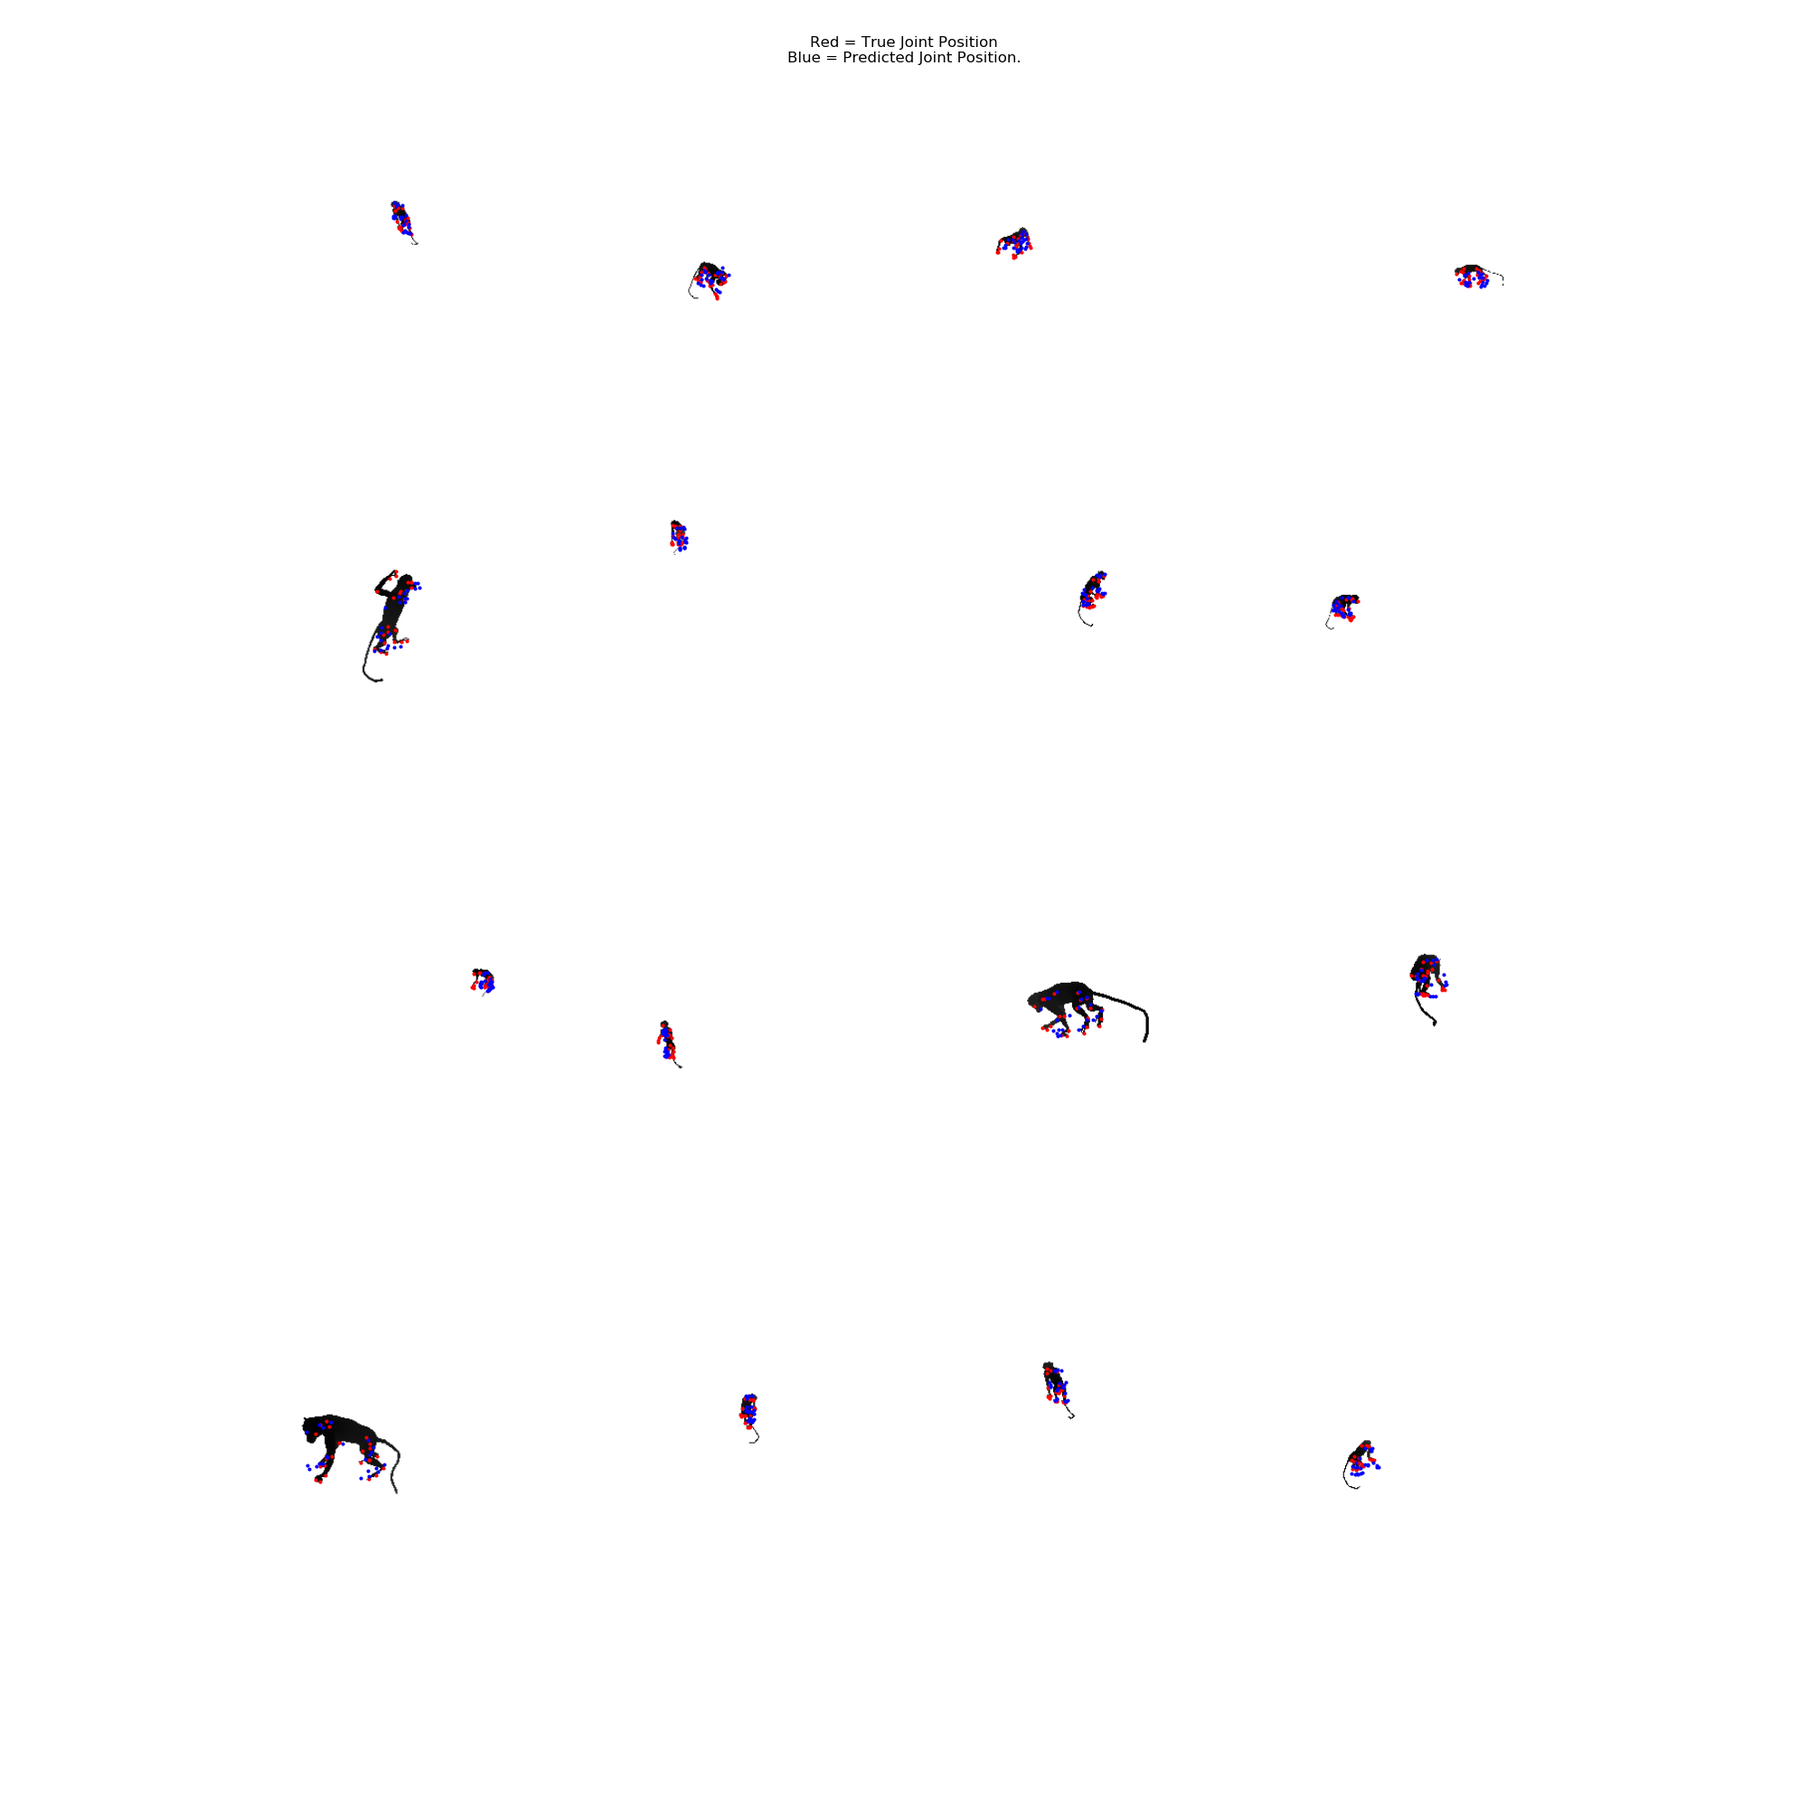
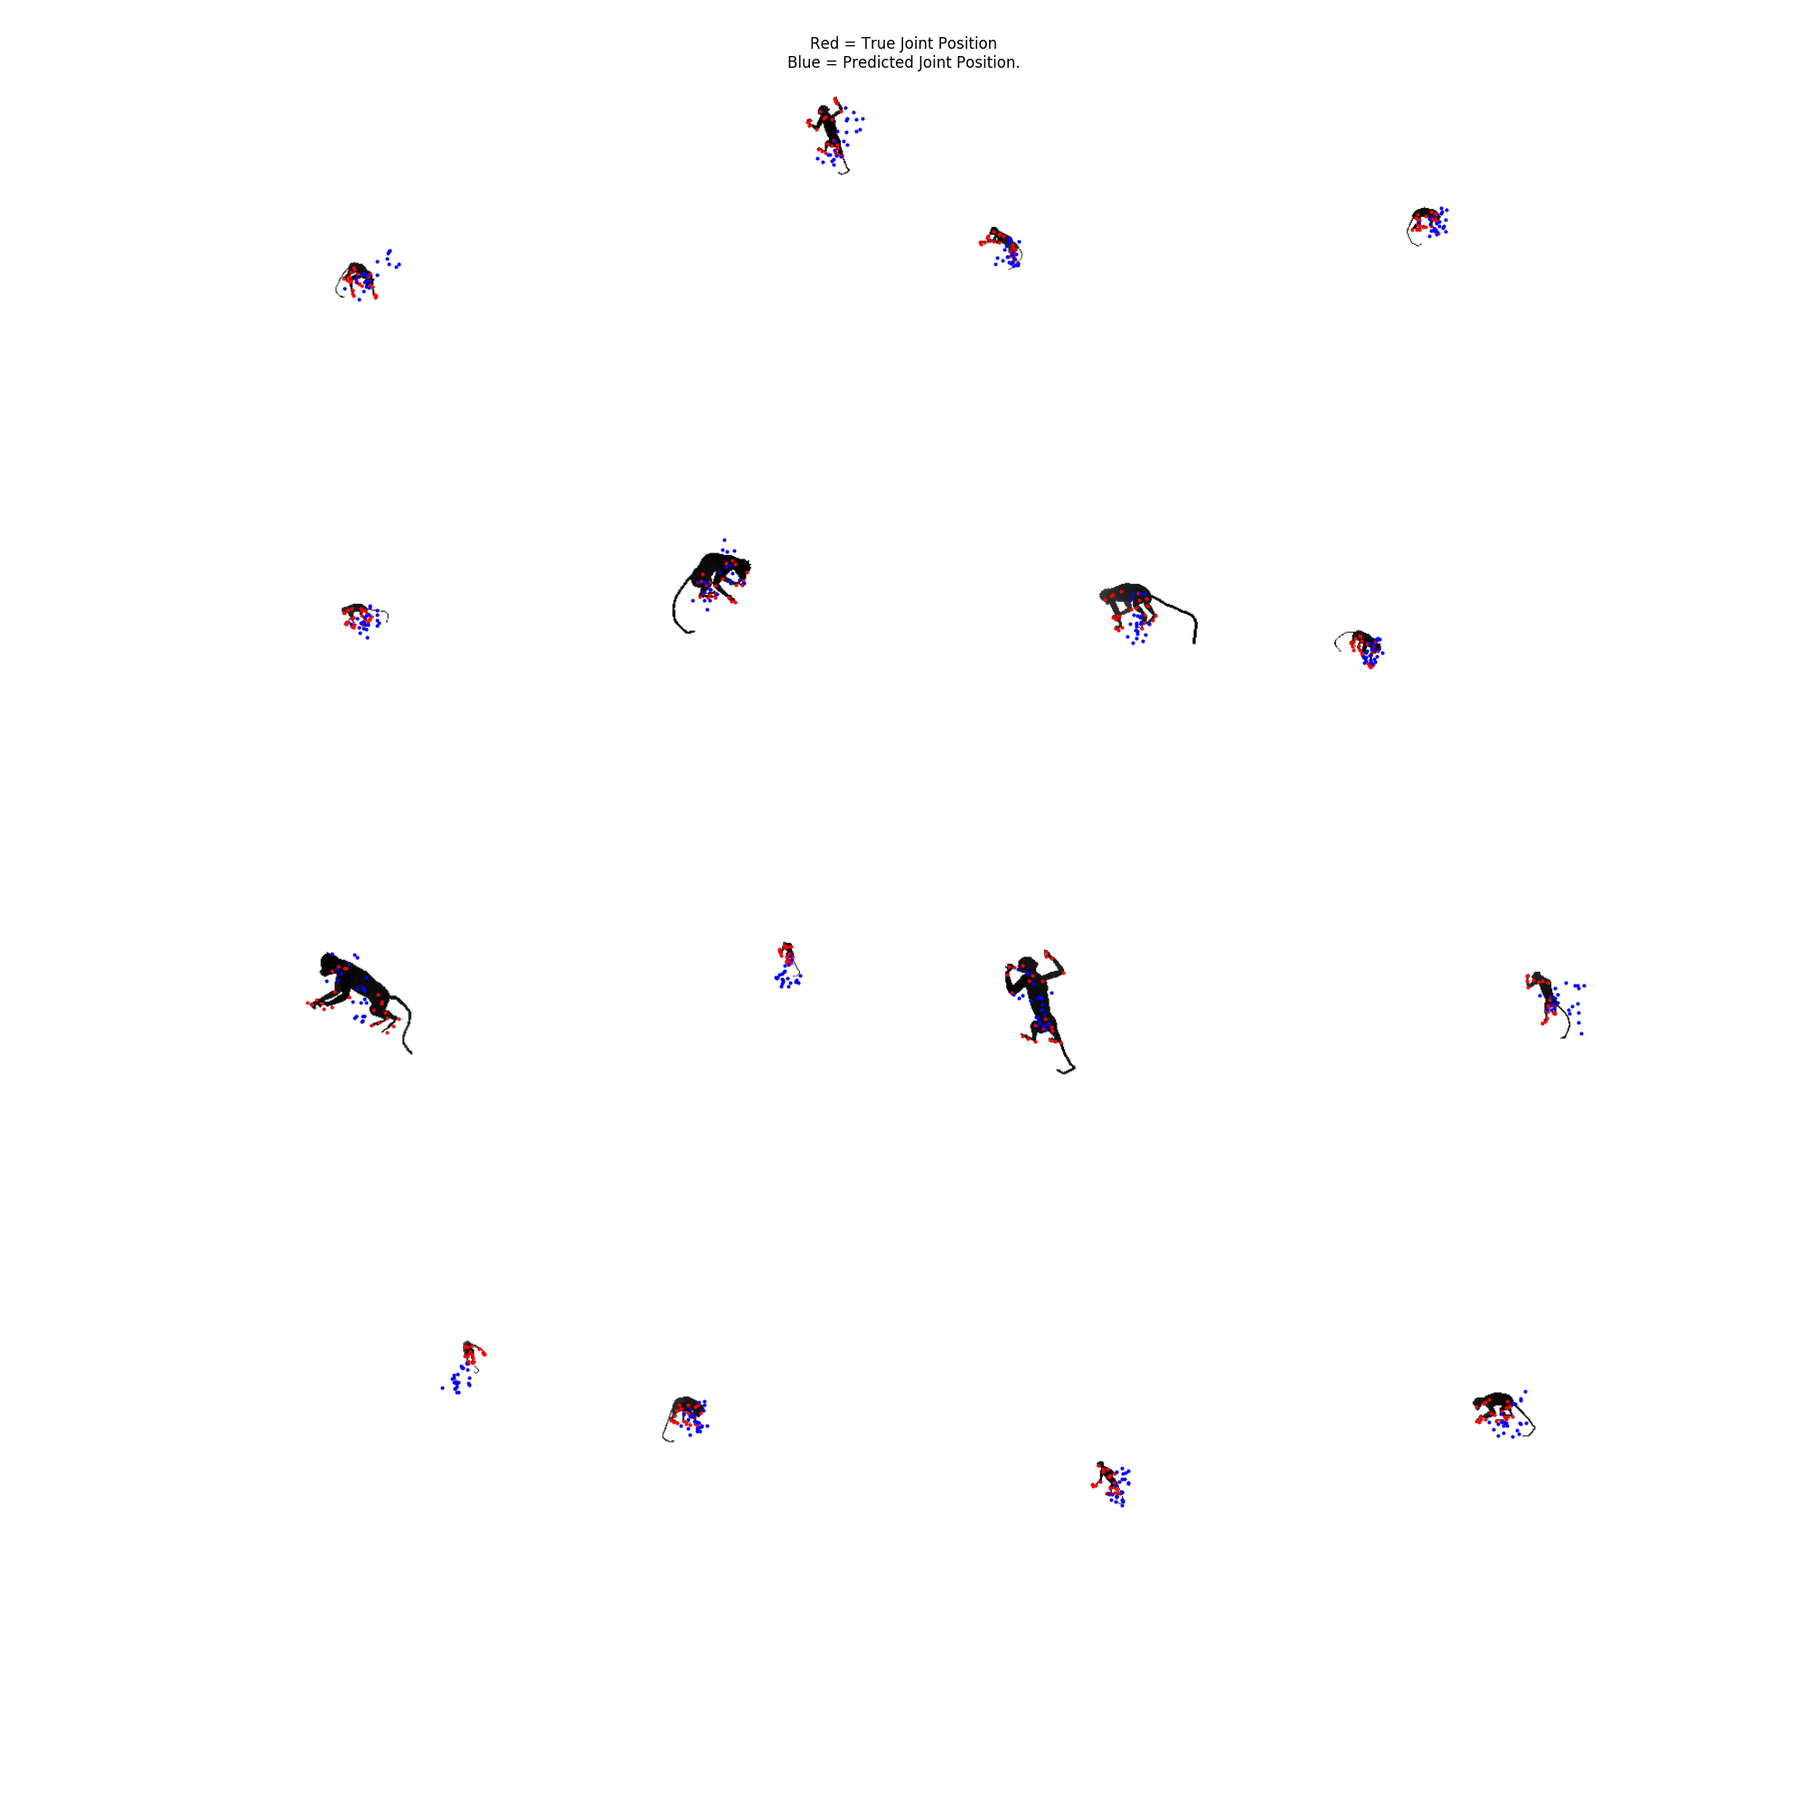
Added more summaries. Added l1 losses/wd.

diff --git a/models/vgg_deconv.py b/models/vgg_deconv.py
@@ -133,8 +133,8 @@ class model_struct:
         if 'pose' in target_variables.keys():
             # Occlusion head
             self.pose = self.fc_layer(
-                self.high_1x1_2_pool,
-                int(self.high_1x1_2_pool.get_shape()[-1]),
+                self.flat_output_2,
+                int(self.flat_output_2.get_shape()[-1]),
                 pose_shape,
                 "pose")
 
@@ -143,8 +143,8 @@ class model_struct:
             {
                 'layers': ['conv', 'deconv'],
                 'weights': [256, 256],
-                'names': ['up-conv1_1', 'up-conv1_2'],
-                'filter_size': [3, 3]
+                'names': ['up-conv3_1', 'up-conv3_2'],
+                'filter_size': [3, 3],
             },
             {
                 'layers': ['conv', 'deconv'],
@@ -155,7 +155,7 @@ class model_struct:
             {
                 'layers': ['conv', 'deconv'],
                 'weights': [1, 1],
-                'names': ['up-conv3_1', 'up-conv3_2'],
+                'names': ['up-conv1_1', 'up-conv1_2'],
                 'filter_size': [3, 3]
             }
             ]
@@ -216,7 +216,7 @@ class model_struct:
                             bottom=act,
                             layer_weights=we,
                             layer_name=na
-                    )
+                        )
                     elif la == 'deconv':
                         act = self.deconv_layer(
                             bottom=act,
@@ -224,7 +224,7 @@ class model_struct:
                             out_channels=we,
                             layer_name=na,
                             filter_size=fs
-                    )
+                        )
                     setattr(self, na, act)
                     print 'Added layer: %s' % na
         return act
@@ -272,78 +272,54 @@ class model_struct:
             out_channels,
             filter_size,
             layer_name,
-            stride=[1, 1, 1, 1],
+            strides=[1, 2, 2, 1],
+            shape=None,
             padding='SAME'):
-        conv_name = layer_name.split('-')[-1]
-        # argmax_name = conv_name + '_argmax'
+
         with tf.variable_scope(layer_name):
-            act = self.deconv(
+            if shape is None:
+                # Compute shape out of Bottom
+                in_shape = tf.shape(bottom)
+
+                h = ((in_shape[1] - 1) * strides) + 1
+                w = ((in_shape[2] - 1) * strides) + 1
+                new_shape = [in_shape[0], h, w, in_channels]
+            else:
+                new_shape = [shape[0], shape[1], shape[2], in_channels]
+            output_shape = tf.stack(new_shape)
+            f_shape = [filter_size, filter_size, in_channels, out_channels]
+
+            # create
+            # num_input = filter_size * filter_size * in_channels / strides
+            # stddev = (2 / num_input)**0.5
+
+            weights = self.get_deconv_filter(f_shape)
+            deconv = tf.nn.conv2d_transpose(
                 bottom,
-                filter_size,
-                in_channels,
-                out_channels,
-                layer_name)
-            return self.unpool_layer2x2(
-                act,
-                self[conv_name],
-                tf.shape(self[conv_name]))
+                weights,
+                output_shape,
+                strides=strides,
+                padding='SAME')
+        return deconv
 
-    def deconv(
-            self,
-            bottom,
-            filter_size,
-            in_channels,
-            out_channels,
-            name,
-            strides=[1, 1, 1, 1],
-            padding='SAME'):
-        W, b = self.get_conv_var(
-            filter_size,
-            in_channels,
-            out_channels,
-            name)
+    def get_deconv_filter(self, f_shape):
+        width = f_shape[0]
+        heigh = f_shape[0]
+        f = tf.ceil(width/2.0)
+        c = (2 * f - 1 - f % 2) / (2.0 * f)
+        bilinear = np.zeros([f_shape[0], f_shape[1]])
+        for x in range(width):
+            for y in range(heigh):
+                value = (1 - abs(x / f - c)) * (1 - abs(y / f - c))
+                bilinear[x, y] = value
+        weights = np.zeros(f_shape)
+        for i in range(f_shape[2]):
+            weights[:, :, i, i] = bilinear
 
-        bottom_shape = tf.shape(bottom)
-        out_shape = tf.stack(
-            [bottom_shape[0], bottom_shape[1], bottom_shape[2], out_channels])
-
-        return tf.nn.conv2d_transpose(
-            bottom,
-            W,
-            out_shape,
-            strides=strides,
-            padding=padding) + b
-
-    def unpool_layer2x2(self, x, raveled_argmax, out_shape):
-        argmax = self.unravel_argmax(raveled_argmax, tf.to_int64(out_shape))
-        output = tf.zeros([out_shape[1], out_shape[2], out_shape[3]])
-
-        height = tf.shape(output)[0]
-        width = tf.shape(output)[1]
-        channels = tf.shape(output)[2]
-
-        t1 = tf.to_int64(tf.range(channels))
-        t1 = tf.tile(t1, [((width + 1) // 2) * ((height + 1) // 2)])
-        t1 = tf.reshape(t1, [-1, channels])
-        t1 = tf.transpose(t1, perm=[1, 0])
-        t1 = tf.reshape(t1, [channels, (height + 1) // 2, (width + 1) // 2, 1])
-
-        t2 = tf.squeeze(argmax)
-        t2 = tf.stack((t2[0], t2[1]), axis=0)
-        t2 = tf.transpose(t2, perm=[3, 1, 2, 0])
-
-        t = tf.concat([t2, t1], 3)
-        indices = tf.reshape(
-            t, [((height + 1) // 2) * ((width + 1) // 2) * channels, 3])
-
-        x1 = tf.squeeze(x)
-        x1 = tf.reshape(x1, [-1, channels])
-        x1 = tf.transpose(x1, perm=[1, 0])
-        values = tf.reshape(x1, [-1])
-
-        delta = tf.SparseTensor(indices, values, tf.to_int64(tf.shape(output)))
-        return tf.expand_dims(
-            tf.sparse_tensor_to_dense(tf.sparse_reorder(delta)), 0)
+        init = tf.constant_initializer(value=weights,
+                                       dtype=tf.float32)
+        return tf.get_variable(name="up_filter", initializer=init,
+                               shape=weights.shape)
 
     def fc_layer(self, bottom, in_size, out_size, name):
         with tf.variable_scope(name):
@@ -353,6 +329,19 @@ class model_struct:
             fc = tf.nn.bias_add(tf.matmul(x, weights), biases)
 
             return fc
+
+    def upsample_filt(size):
+        """
+        Make a 2D bilinear kernel suitable for upsampling of the given (h, w) size.
+        """
+        factor = (size + 1) // 2
+        if size % 2 == 1:
+            center = factor - 1
+        else:
+            center = factor - 0.5
+        og = np.ogrid[:size, :size]
+        return (1 - abs(og[0] - center) / factor) * \
+               (1 - abs(og[1] - center) / factor)
 
     def get_conv_var(
             self,
@@ -365,6 +354,15 @@ class model_struct:
             weight_init = [
                 [filter_size, filter_size, in_channels, out_channels],
                 tf.contrib.layers.xavier_initializer_conv2d(uniform=False)]
+        elif init_type == 'bilinear':
+            weight_init = np.zeros((
+                filter_size,
+                filter_size,
+                in_channels,
+                out_channels), dtype=np.float32)
+            upsample_kernel = self.upsample_filt(filter_size)
+            for i in xrange(out_channels):
+                weight_init[:, :, i, i] = upsample_kernel
         else:
             weight_init = tf.truncated_normal(
                 [filter_size, filter_size, in_channels, out_channels],

diff --git a/ops/tf_model_cnn_joints.py b/ops/tf_model_cnn_joints.py
@@ -107,14 +107,39 @@ def train_and_eval(config):
 
             if 'label' in train_data_dict.keys():
                 # 1. Joint localization loss
-                loss_list += [tf.nn.l2_loss(
-                    model.output - train_data_dict['label'])]
+                if config.calculate_per_joint_loss:
+                    if config.selected_joints is None:
+                        use_joints = config.joint_order
+                    else:
+                        use_joints = config.selected_joints
+                    res_pred = tf.reshape(
+                        model.output,
+                        [config.train_batch, len(use_joints), config.num_dims])
+                    res_gt = tf.reshape(
+                        train_data_dict['label'],
+                        [config.train_batch, len(use_joints), config.num_dims])
+                    label_loss = tf.reduce_sum(
+                        tf.abs(res_pred - res_gt), axis=-1)
+                    loss_x_batch = tf.reduce_sum(label_loss, axis=0)
+                    _, joint_variance = tf.nn.moments(loss_x_batch, [0])
+
+                    # Summarize joint loss (X batch): some easier than others?
+                    # import ipdb;ipdb.set_trace()
+                    [tf.summary.scalar(
+                        '%s' % la, lo[0]) for la, lo in zip(
+                        use_joints, tf.split(loss_x_batch, len(use_joints)))]
+                    # Track variance across losses
+                    tf.summary.scalar('Joint variance', joint_variance)
+                    loss_list += [tf.reduce_mean(label_loss)]
+                else:
+                    loss_list += [tf.nn.l2_loss(
+                        model.output - train_data_dict['label'])]
                 loss_label += ['combined head']
                 train_score, _ = correlation(
                     model.output, train_data_dict['label'])
-                tf.summary.scalar("training correlation", train_score)
+                tf.summary.scalar('training correlation', train_score)
 
-            if 'occlusions' in train_data_dict.keys():
+            if 'occlusion' in train_data_dict.keys():
                 # 2. Auxillary losses
                 # a. Occlusion
                 loss_list += [tf.reduce_mean(
@@ -127,6 +152,7 @@ def train_and_eval(config):
                 loss_list += [tf.nn.l2_loss(
                     train_data_dict['pose'] - model.pose)]
                 loss_label += ['pose head']
+                tf.summary.scalar()
             if 'deconv' in train_data_dict.keys():
                 # c. Pose
                 loss_list += [tf.nn.l2_loss(
@@ -140,8 +166,12 @@ def train_and_eval(config):
                     tf.trainable_variables(), config.wd_layers)
                 l2_wd_layers = [
                     x for x in l2_wd_layers if 'biases' not in x.name]
-                loss += (config.wd_penalty * tf.add_n(
-                        [tf.nn.l2_loss(x) for x in l2_wd_layers]))
+                if config.wd_type == 'l1':
+                    loss += (config.wd_penalty * tf.add_n(
+                            [tf.nn.l1_loss(x) for x in l2_wd_layers]))
+                elif config.wd_type == 'l2':    
+                    loss += (config.wd_penalty * tf.add_n(
+                            [tf.nn.l2_loss(x) for x in l2_wd_layers]))
 
             if config.optimizer == 'adam':
                 optimizer = tf.train.AdamOptimizer
@@ -209,7 +239,7 @@ def train_and_eval(config):
     coord = tf.train.Coordinator()
     threads = tf.train.start_queue_runners(sess=sess, coord=coord)
 
-    # Create list of variables to run through the model
+    # Create list of variables to run through training model
     train_session_vars = {
         'train_op': train_op,
         'loss_value': loss,
@@ -219,17 +249,20 @@ def train_and_eval(config):
         'ytrue': train_data_dict['label'],
     }
 
+    # Create list of variables to run through validation model
     val_session_vars = {
         'val_acc': val_score,
         'val_pred': val_model.output,
         'val_ims': val_data_dict['image']
     }
 
+    # Create list of variables to save to numpys
     save_training_vars = [
         'im',
         'yhat',
         'ytrue',
-        'yhat']
+        'yhat'
+        ]
 
     if 'occlusions' in train_data_dict.keys():
         key = 'occhat'

diff --git a/config.py b/config.py
@@ -52,12 +52,12 @@ class monkeyConfig(object):
 
         # Model settings
         self.epochs = 50
-        self.model_type = 'vgg_deconv'  # 'cnn_multiscale_high_res_skinny_pose_occlusion'  # 'resnet'  # 'vgg_regression_model' 
+        self.model_type = 'vgg_deconv'  #  'cnn_multiscale_high_res_skinny_pose_occlusion'  # 'resnet'  # 'vgg_regression_model' 
         # vgg_feature_model, fully_connected_conv
         self.initialize_layers = ['fc6', 'fc7', 'pre_fc8', 'fc8']
         self.fine_tune_layers = ['fc6', 'fc7', 'pre_fc8', 'fc8']
         self.batch_norm = ['fc6', 'fc7', 'pre_fc8']
-        self.wd_layers = None  # ['fc6', 'fc7', 'pre_fc8']
+        self.wd_layers = ['occlusion', 'output']  # ['fc6', 'fc7', 'pre_fc8']
         self.fe_keys = ['pool2', 'pool3', 'pool4', 'pool5', 'lr_conv3_3']  # , 'lr_pool2', 'lr_pool3']  # ['conv2_1', 'conv3_1', 'conv4_1', 'conv5_1']
         self.data_augmentations = [
             'convert_labels_to_pixel_space',  # commented out bc we want to train the model on the 3D coordinates, not pixel positions
@@ -71,7 +71,7 @@ class monkeyConfig(object):
         self.ratio = None  # [0.1, 0.9]
         self.lr = 1e-3   # Tune this -- also try SGD instead of ADAm
         self.hold_lr = 1e-3
-        self.wd_penalty = None
+        self.wd_penalty = 5e-4
         self.keep_checkpoints = 100
         self.optimizer = 'adam'
         self.steps_before_validation = 1000
@@ -84,6 +84,8 @@ class monkeyConfig(object):
         self.mean_file = 'mean_file'  # Double check: used in training?
         self.normalize_labels = True  # True
         self.aux_losses = ['occlusion']  # , 'pose']  #  (i.e. angle between neck and abdomen)
+        self.calculate_per_joint_loss = True
+        self.wd_penalty = 'l1'
 
         # Kinect file settings
         self.kinect_directory = pjoin(self.base_dir, 'extracted_kinect_depth')
@@ -145,6 +147,6 @@ class monkeyConfig(object):
             'lToeMid3', 
             'rToeMid3'
         ]
-        self.selected_joints = ['lEye', 'neck']  # Set to None to ignore
+        self.selected_joints = None  # ['lEye']  # Set to None to ignore
         self.num_dims = 3
         self.num_classes = len(self.joint_order) * self.num_dims

diff --git a/visualization/monkey_mosaic.py b/visualization/monkey_mosaic.py
@@ -45,7 +45,7 @@ def plot_coordinates(ax, vector, color):
 def main(
         num_files=1,
         output_file='monkey_mosaic.png',
-        monkey_dir='/media/data_cifs/monkey_tracking/batches/test/2017_06_14_22_49_01',
+        monkey_dir='/media/data_cifs/monkey_tracking/batches/test/2017_06_16_17_04_38',
         normalize=False,
         unnormalize=False
         ):
